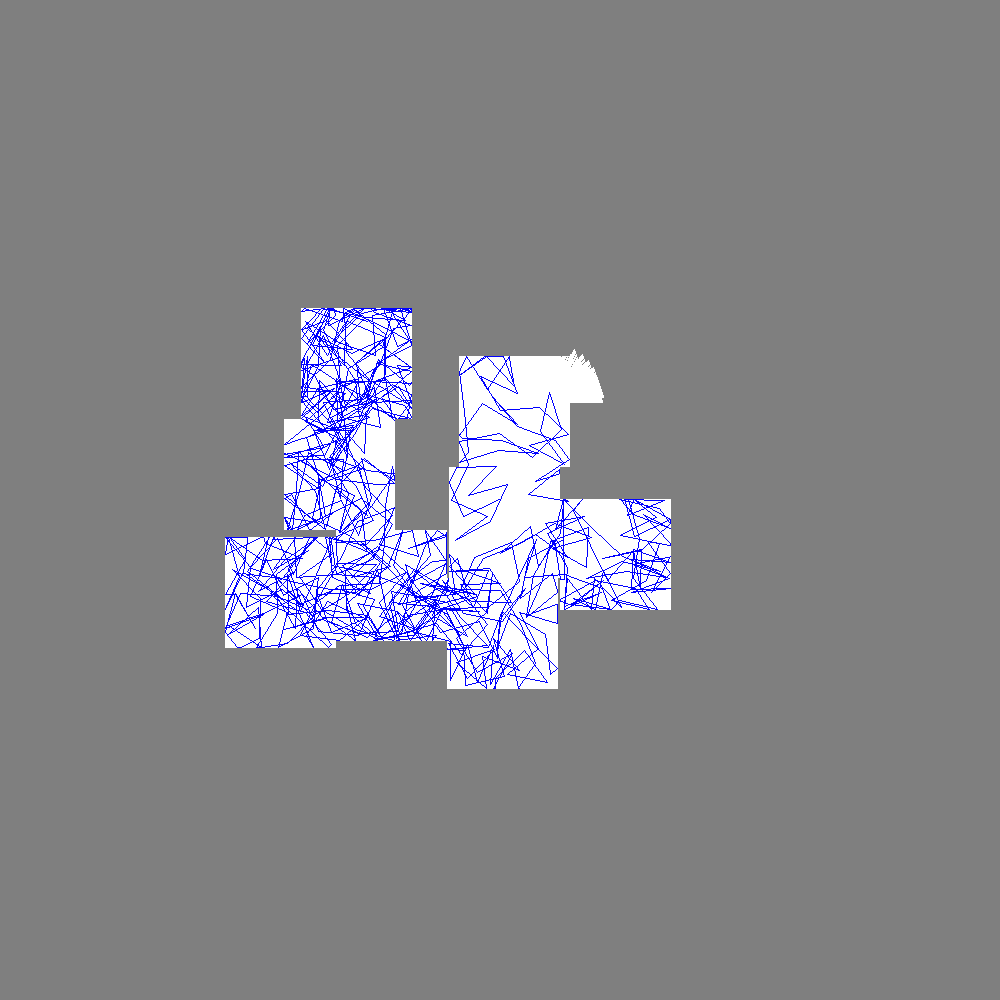
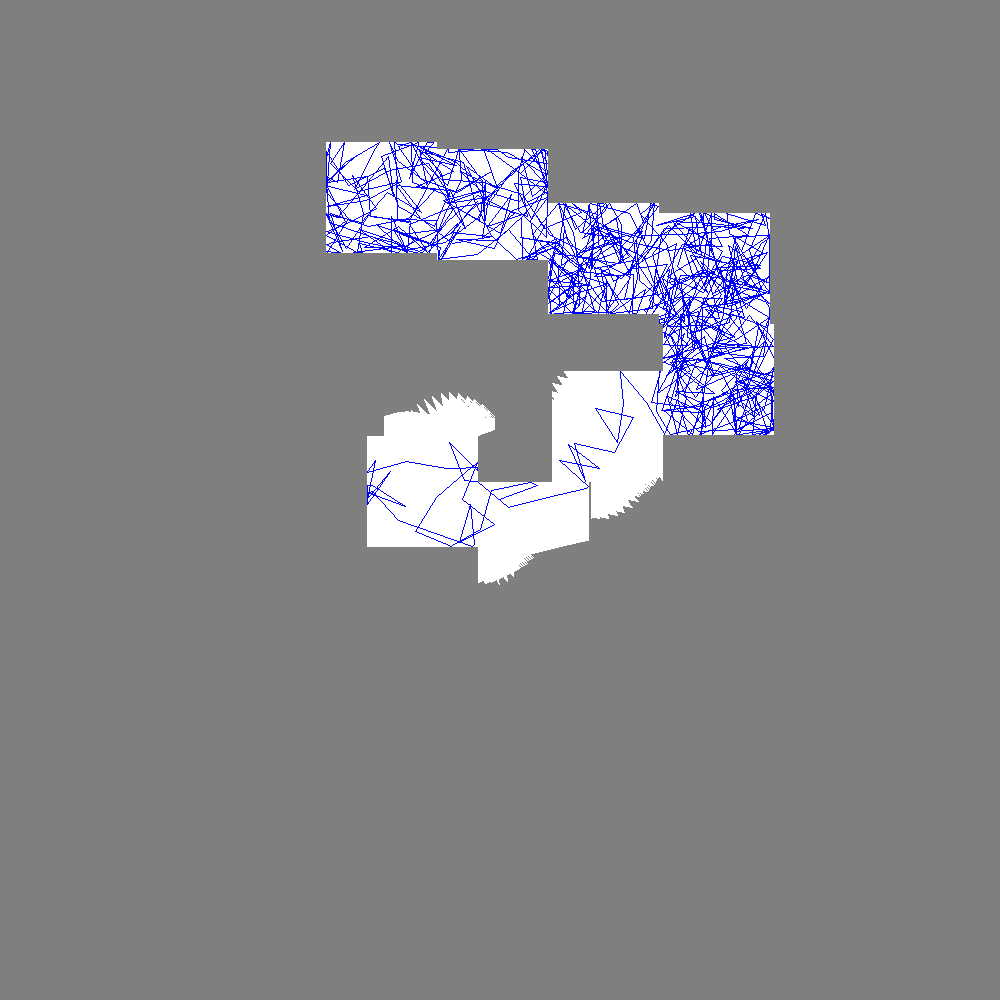
added heuristic

Changed region(s): [[0.217, 0.124, 0.775, 0.713]]

diff --git a/AREgym.py b/AREgym.py
@@ -27,7 +27,7 @@ import utils
 
 class AREEnv(gym.Env):
     def __init__(self, grid, step_distance, save_map=False, laser_scan_max_dist=50, \
-                 num_laser_scan=36, heuristic_dist=80, termination_threshhold=0.9):
+                 num_laser_scan=36, heuristic_dist=50, termination_threshhold=0.9):
         self.world_size = grid # how large to generate the square map, in pixels
         self.step_distance = step_distance # how far the robot moves at each time step, in pixels
 
@@ -52,7 +52,7 @@ class AREEnv(gym.Env):
 
         # initialize heuristics and heuristics params
         self.heuristic = np.zeros((self.num_laser_scan))
-        self.heuristic_dist = heuristic_dist # self.step_distance * 2 magic number 
+        self.heuristic_dist = heuristic_dist
 
         # initialize reward 
         self.reward_prev = 0
@@ -103,6 +103,7 @@ class AREEnv(gym.Env):
         # keeping track of stuff for rendering 
         self.scan = [] # store values scanned pixels for rendering
 
+    # reset and generate a new world
     def reset(self):
         self.world = self.world_generator.new_world()
         self.x = self.world_size
@@ -119,11 +120,17 @@ class AREEnv(gym.Env):
             self.save_map_mode()
 
         return self.observe()
-
+    
+    '''
+    Take one step in action [0,1] direction
+    Updates rewards and map for rendering
+    Calls the move function to actually move the bot in global and world
+    '''
     def step(self, action):
         # scale action between -pi and pi
         heading = utils.action_to_rad(action)
-        
+
+        # may have to change step_distance to laser scan distance        
         steps = self.world.get_path(heading, self.step_distance)
         
         self.reward_prev = self.world.explore_progress()
@@ -137,8 +144,13 @@ class AREEnv(gym.Env):
         
         self.reward_after = self.world.explore_progress()
 
-        return self.observe(), self.get_reward(), self.finished()
+        # runnning slowly so i commented
+        # return self.observe(), self.get_reward(), self.finished()
     
+    '''
+    Move the bot in dx and dy direction in global map
+    Calls the move function in world to physically move the bot
+    '''
     def move(self, dx, dy):
         self.x += dx
         self.y += dy
@@ -152,13 +164,18 @@ class AREEnv(gym.Env):
         scaled_scan = self.laserscan / self.laser_scan_max_dist
         observation = np.concatenate((scaled_scan, self.heuristic))
         return observation
-
+    
+    '''
+    Take the laser scan at current point based on world map
+    Updates self.laserscan
+    '''
     def get_laser_scan(self):
         if self.save_map:
             self.scan.clear()
 
         for i in range(self.num_laser_scan):
             heading = self.laser_scan_heading[i]
+            # function to update in bresenham
             def update_func(dx, dy):
                 self.global_map[self.x + dx, self.y + dy] = 1
                 if self.world.world[self.world.x + dx, self.world.y + dy] == 0:
@@ -167,6 +184,7 @@ class AREEnv(gym.Env):
                 self.world.explore(dx, dy)
                 if self.save_map:
                     self.scan.append([dx,dy])
+            # terminating condition in bresenham
             def term_cond(dx, dy):
                 return  utils.out_of_bounds(self.world.x + dx, self.world.y + dy, \
                                             self.world.size, self.world.size) or \
@@ -176,19 +194,45 @@ class AREEnv(gym.Env):
                                           self.x, self.y, self.laser_scan_max_dist, \
                                           heading)
             self.laserscan[i] = utils.euc_dist(self.x,x1,self.y,y1) # in pixels
-            
-    def calc_heuristics(self):
-        for i in range(self.num_laser_scan):
-            '''
-            ███╗░░░███╗░█████╗░░██████╗░██╗░█████╗░
-            ████╗░████║██╔══██╗██╔════╝░██║██╔══██╗
-            ██╔████╔██║███████║██║░░██╗░██║██║░░╚═╝
-            ██║╚██╔╝██║██╔══██║██║░░╚██╗██║██║░░██╗
-            ██║░╚═╝░██║██║░░██║╚██████╔╝██║╚█████╔╝
-            ╚═╝░░░░░╚═╝╚═╝░░╚═╝░╚═════╝░╚═╝░╚════╝░
-            '''
 
-            self.heuristic[i] = 1
+    '''
+    Calculate heuristic
+    Do a laserscan from the current point to find the furthest possible point
+    Heuristic at each heading is the total total unexplored area from another
+    laser scan at that point (using heuristic distance), scaled to [0,1]
+    '''      
+    def calc_heuristics(self):
+        heu = np.zeros((self.num_laser_scan))
+        for i in range(self.num_laser_scan):
+            heading = self.laser_scan_heading[i]
+            def update_func(dx, dy):
+                pass
+            def term_cond(dx, dy):
+                return utils.out_of_bounds(self.x + dx, self.y + dy, \
+                                           self.world_size, self.world_size) or \
+                        self.global_map[self.x + dx, self.y + dy] != 1
+            x1, y1 = utils.bresenham_line(lambda dx, dy: update_func(dx, dy), \
+                                          lambda dx, dy: term_cond(dx, dy), \
+                                          self.x, self.y, self.laser_scan_max_dist, \
+                                          heading)
+            area_to_explore = 0
+            for j in range(self.num_laser_scan):
+                heading2 = self.laser_scan_heading[j]
+                can_explore = np.zeros((2 * self.world_size, 2 * self.world_size))
+                def update_func2(dx, dy):
+                    if self.global_map[x1 + dx, y1 + dy] == -1:
+                        can_explore[x1 + dx, y1 + dy] = 1
+                def term_cond2(dx, dy):
+                    return  utils.out_of_bounds(x1 + dx, y1 + dy, \
+                                                self.world_size, self.world_size) or \
+                            self.global_map[x1 + dx, y1 + dy] == 0
+                x2, y2 = utils.bresenham_line(lambda dx, dy: update_func2(dx, dy), \
+                                              lambda dx, dy: term_cond2(dx, dy), \
+                                              x1, y1, self.heuristic_dist, \
+                                              heading2)
+                area_to_explore += can_explore.sum()
+            heu[i] = area_to_explore
+        self.heuristic = heu/max(heu.max(),1)
         
     def get_reward(self):
         '''
@@ -221,7 +265,10 @@ class AREEnv(gym.Env):
 
     def finished(self):
         return self.world.explore_progress() >= self.termination_threshhold
-
+    
+    '''
+    Magical rendering function that spits out images
+    '''
     def render(self, image_path=""):
         
         if not self.save_map:

diff --git a/utils.py b/utils.py
@@ -1,12 +1,30 @@
 import math
 
+'''
+returns true if out of bound of map
+'''
 def out_of_bounds(x, y, xl, yl):
     return x < 0 and x >= xl and y < 0 and y >= yl
 
-# map action from [0,1] to [-pi,pi]
+'''
+map action from [0,1] to [-pi,pi]
+'''
 def action_to_rad(action):
     return (action - 0.5) * math.pi * 2
 
+'''
+Bresenham line algo from wikipedia
+@param update_func: function that is called at every pixel,
+                    takes in dx and dy so far
+@param term_cond: terminating condition to stop algom
+                  takes in dx and dy so far
+@param x0: starting x position
+@param y0: starting y position
+@d: distance to travel
+@heading: heading to travel
+
+@return: total dx and dy from start point
+'''
 def bresenham_line(update_func, term_cond, x0, y0, d, heading):
     xs, ys = x0, y0
     x1 = int(x0 + d*math.cos(heading))
@@ -35,5 +53,8 @@ def bresenham_line(update_func, term_cond, x0, y0, d, heading):
             y0 += sy
     return x0,y0
 
+'''
+Euclidean distance
+'''
 def euc_dist(x0, x1, y0, y1):
     return math.sqrt((x0-x1)**2+(y0-y1)**2)
